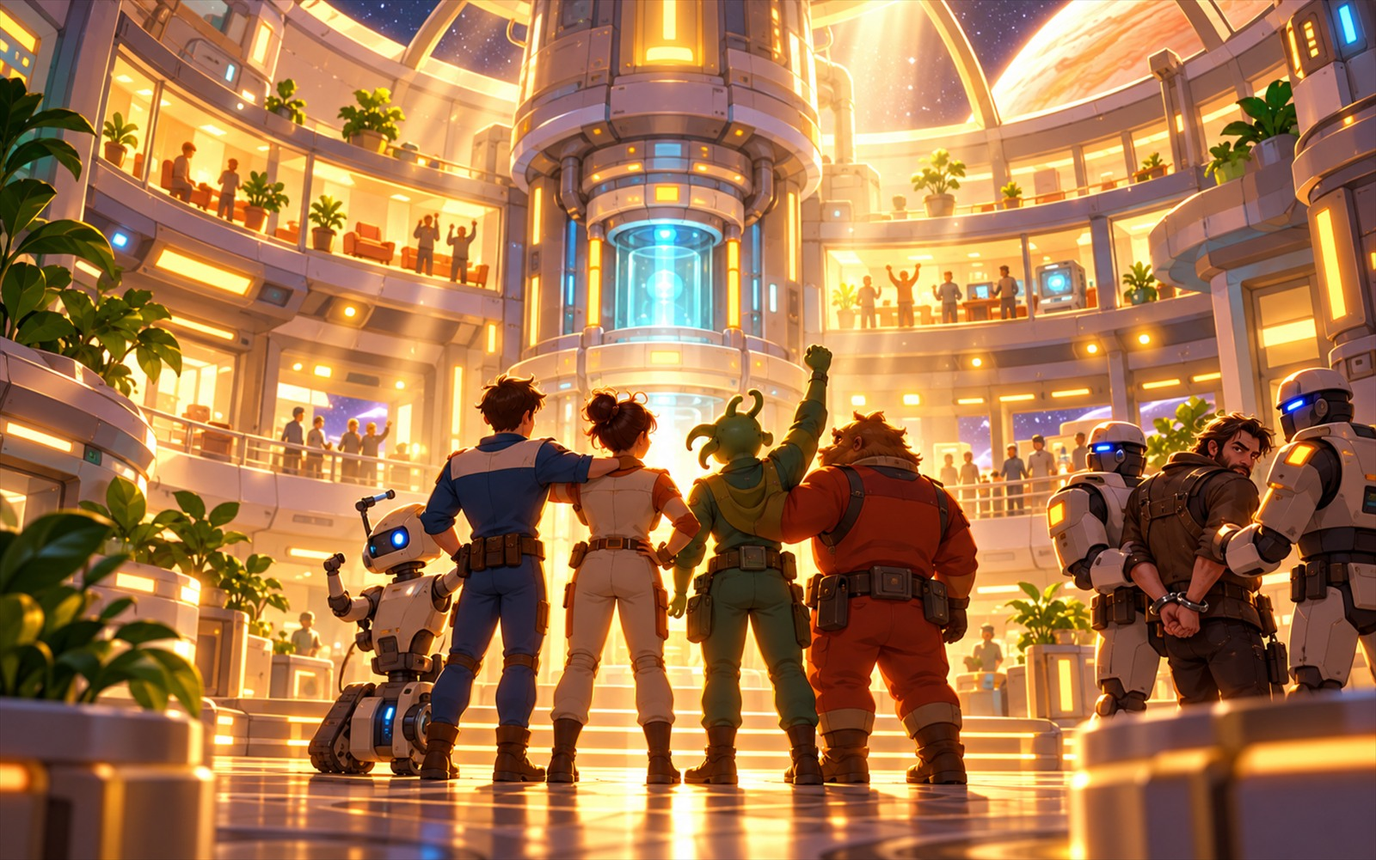
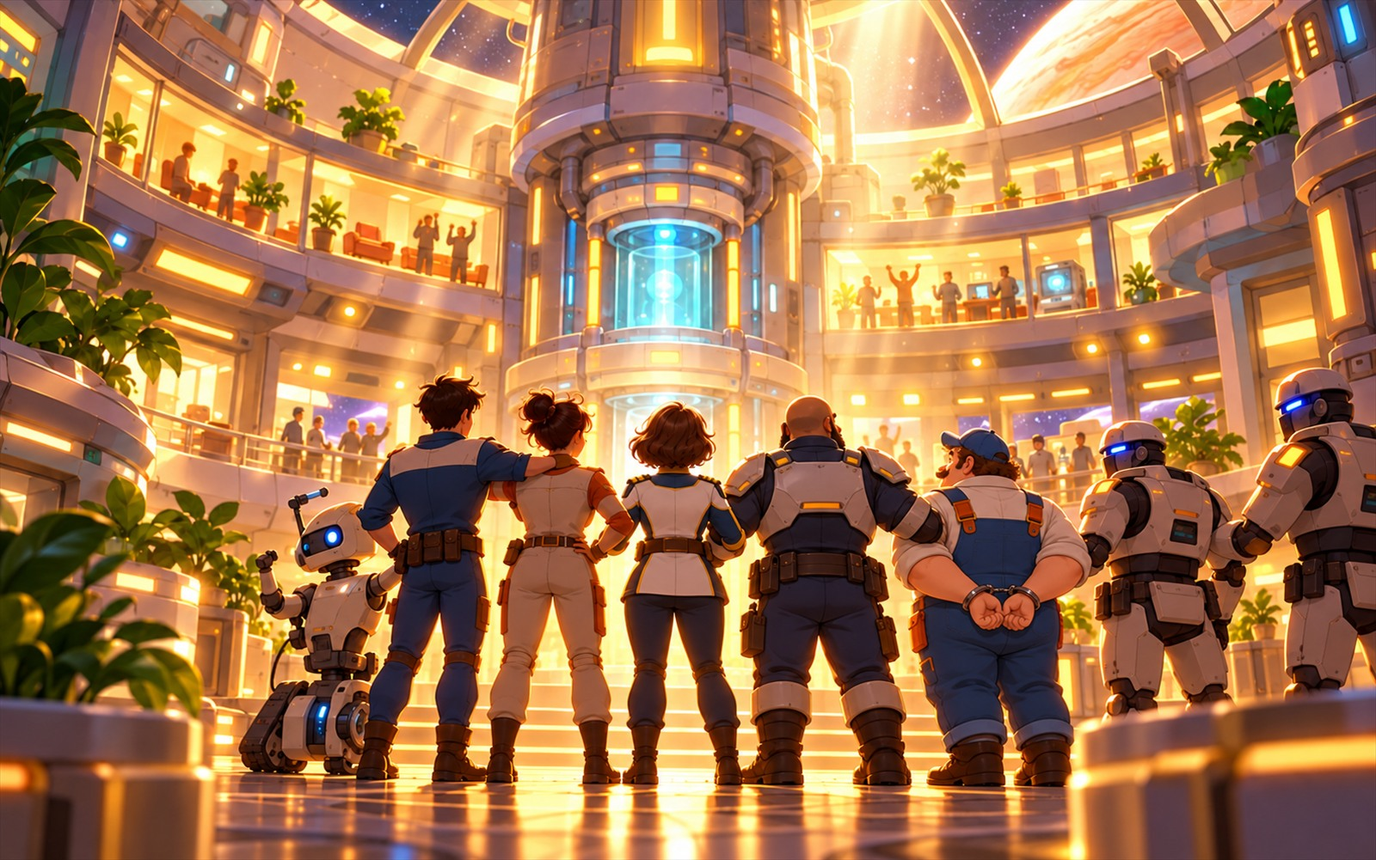
fix(B05): 评审修正轮 9 条落地 + 复评（轮 2）pass + 美术到货直入（T31-v2/T32-v2/T80）+ 记录面小修
- 修正轮：§1.1 确认句并入「手动存档位保留」；§1.2 机检① 拆口径＋写入失败采用句；§7.8 按 B05 后口径改写（29＝T80/44 条件件/不复做＋B134 例外）；§6.7 登记集 9＋1；§2-B127/B132/B133 计数与扫描式样；§8.2 H5＝12 条；§10/§13/§14 同步；staging 行 29/44＋§3.1 注记＋§6-D2 历史标注（v2.9）；
- 复评（轮 2）＝pass（批次档 §3 轮次 2 在案）；
- 美术到货直入：monitor-frame／ending-a 同名覆盖（v2）、defeat-ambush（T80）新增；art 侧登记与用词统一（「保险丝」）；
- 记录面小修（父侧直接执行·可回退）：design-ui v1.13／nodes v3.20 变更条目、staging v2.9 写入范围、B133 扫描面计数对齐；批次档 §4 老板直令入档。

diff --git a/docs/design-ui-v1.md b/docs/design-ui-v1.md
@@ -2,7 +2,7 @@
 
 > 归属：本关**界面 / 体验设计的唯一归属**——布局骨架、提示颜色语义、弹框与反馈规则、物品栏、氧气读数呈现、在场人物表现、舱外与空间通道的界面侧、玩法说明全文与检查清单。
 > 权威关系：数值与预算＝`design-station-v1.md` §8；文案＝`station-story-bible.md` §7；画面演出与镜头＝`station-staging.md` §1；场景架构与出图规则＝`art/scene-architecture.md`。三者冲突 ⇒ 停下上报，不得就地改口径。
-> 状态：**v1.12（B05 · 2026-10-04 晚 三条：CG 修正／结局整屏图补齐／多档位存档）**——v1.11 在案（B132）；本版四条：① T31／T32 判改重出（形象参照写死＋动作口径去歧义——B133／B134）；② 结局／失败整屏图补齐（29＝T80；44＝T81 条件件）＋浮图 `sangni-ambush` 撤注册（单一呈现——B135）；③ 新增**多档位手动存档/读档**（§1.2——B136，`design-station-v1.md` §7-E29）；④ 玩法说明增第 12 条（§8.1）。同步 §0／§1／§1.2／§2／§6.7／§7.4／§7.4.1／§7.7／§7.12／§8.1／§8.2／§10／§11／§12／§13／§14——**待评审轮与老板批准（§4 两待裁：§14-35／§14-36）**。
+> 状态：**v1.13（B05 · 2026-10-04 晚 三条：CG 修正／结局整屏图补齐／多档位存档；2026-10-06 评审修正轮续——§15）**——v1.11／v1.12 在案（B132／§15）；B05 四条：① T31／T32 判改重出（形象参照写死＋动作口径去歧义——B133／B134）；② 结局／失败整屏图补齐（29＝T80；44＝T81 条件件）＋浮图 `sangni-ambush` 撤注册（单一呈现——B135）；③ 新增**多档位手动存档/读档**（§1.2——B136，`design-station-v1.md` §7-E29）；④ 玩法说明增第 12 条（§8.1）。同步 §0／§1／§1.2／§2／§6.7／§7.4／§7.4.1／§7.7／§7.8／§7.12／§8.1／§8.2／§10／§11／§12／§13／§14——**评审修正轮落地、复评（轮 2）pass；待老板批准（§4 两待裁：§14-35／§14-36）**。
 > 来源：老板 2026-10-03 剧本定稿后的界面与体验 7 点意见 ＋ 美术任务全盘重排指令（「未处理的任务先全部撤回，重新安排……每改一次任务都检查美工的任务」）＋ 2026-10-03 ①人物呈现裁定（「在场景图中浮现对应角色的图片……场景图上还是要出现这个猫」→ 两层制）。
 > 边界：本档只写「界面怎么摆、怎么反馈」；不改剧情语义与数值（需要新数据处一律走「最小新增」并论证）；不写实现代码。
 
@@ -69,7 +69,7 @@
 - **结束判定**：存档节点为 `win`／`fail` 节点（41/42/43／44／29）或 `st.bankrupt` 为真 ⇒ 该局已结束。
 - **通关记录块**：① 通关史（独立键）：`🏆 通关记录：结局 · 圆满`——多个已收集结局并列（如 `…：结局 · 圆满、结局 · 取舍`），按达成先后、去重；② 本局失败终止（存档为 fail 态）另起一行：`上局结束：未通关`。失败不写入记录、不清空已有记录。
 - **覆盖口径**：开新局将覆盖已有存档时——先弹**统一一句确认**；取消＝不动存档。**不做自动备份。**
-  - **采用句（唯一一句——两处同句）**：`开始新局会覆盖本关的旧存档（通关记录保留）。确定开始？`
+  - **采用句（唯一一句——两处同句）**：`开始新局会覆盖本关的旧存档（通关记录与手动存档位保留）。确定开始？`
   - 两处＝① 卡片「重新开始」／「重玩」；② 局内重开（右上「↺」重开按钮／结局与失败结算的「↺ 重新开始本关」／求救面板「↺ 重开本关」）。
 - **存档脚注**：卡片一行小字：`进度存在这台设备的浏览器里（各人各份）`。
 - **难度选择**：单选（默认普通）——作用于「开始／重新开始／重玩」开新局；「继续」不受其影响。
@@ -120,7 +120,7 @@
 **异常兜底（本机存储不可用）**
 
 - 打开弹窗时**探测一次**（探针写入＋删除）：不可用 ⇒ 顶部警示行`这台设备无法保存进度（浏览器存储被禁用）；本次游玩不受影响。`＋档位按钮全部禁用。
-- 写入失败（配额等）⇒ 该档行内提示＋toast 一句；**游戏继续**（与既有自动存档静默失败同口径——不中断玩法）。
+- 写入失败（配额等）⇒ 该档行内提示＋toast（同句）：`⚠ 没能写入这个存档位（这台设备的存储空间不足或被禁用）；本次游玩不受影响。`；**游戏继续**（不中断玩法——自动存档侧照旧静默）。
 - 档位数据损坏（JSON 坏／字段缺）⇒ 该档**按空档呈现**（不删原数据、不抛异常）。
 
 **落地与同步（实现轮）**
@@ -131,12 +131,12 @@
 
 **机检（实现轮）**
 
-1. **键**：`slotsKey('station')`＝`mygame2.slots.station.v1`；三键（存档／档位／记录）互异；对档位存/读/删后，自动存档与记录逐字不变（互不干扰）。
+1. **键**：`slotsKey('station')`＝`mygame2.slots.station.v1`；三键（存档／档位／记录）互异；存／删后自动存档与记录逐字不变（互不干扰）；**读后自动存档＝该档 `st`**（与行为③、机检⑦同口径）；记录始终不变。
 2. **结构**：空表 ⇒ 3 项全 null；存入第 n 档 ⇒ 仅第 n 档有值（`savedAt` 合法＋`st` 与当时状态一致）；覆盖 ⇒ 第 n 档替换、其余不变；删除 ⇒ 回 null。
 3. **读档一致**：`档位读出 → normalizeState` 与存入时状态逐项一致（`loc`／资源／道具／难度／玩家名／`mSeen`／`cgSeen`）。
 4. **旧档与回归**：既有 `mygame2.save.<id>.v1` 照旧可读；B117 三态六条回归绿（档位键存在与否不影响卡片三态）；无档位 ⇒ 卡片不渲染「存档位」行。
 5. **确认句**：三句逐字（单一来源 `Core.slotAsk()`）；两处读取入口同串。
-6. **兜底**：桩 store 抛错 ⇒ 探测 false、按钮禁用、警示行在；`slotPut` 返回 false 且不抛；坏 JSON ⇒ 视空档。
+6. **兜底**：桩 store 抛错 ⇒ 探测 false、按钮禁用、警示行在；`slotPut` 返回 false 且不抛（⇒ 该档行内提示＋toast＝采用句）；坏 JSON ⇒ 视空档。
 7. **源码契约＋DOM 冒烟（临时）**：工具栏含 `💾`；`#saveModal` 在；存 → 读 → 删一轮（读后状态＝存档点、删后档位空）。
 
 ---
@@ -320,8 +320,8 @@
 ### B124 局内重开确认与卡片侧统一一句（2026-10-04 裁定）
 
 - **来源**：实现轮（B117）§5-5.4 报告——局内重开确认（`restart()`）与卡片侧 §1.1 定稿（`coverAsk`）存在两套说法。
-- **口径**：统一采用**卡片侧定稿句**——**采用句＝「开始新局会覆盖本关的旧存档（通关记录保留）。确定开始？」**；两处同句：① 卡片「重新开始」／「重玩」（§1.1）；② 局内重开（右上「↺」／结算「↺ 重新开始本关」／求救面板「↺ 重开本关」）。取消＝不动存档；不做自动备份。
-- **落点**：本档 §1.1（覆盖口径＋机检④）；实现＝`engine.js`（两处同源——代码轮）。
+- **口径**：统一采用**卡片侧定稿句**——**采用句＝「开始新局会覆盖本关的旧存档（通关记录与手动存档位保留）。确定开始？」**（括注含手动存档位——B136 开新局不碰档位，§1.2）；两处同句：① 卡片「重新开始」／「重玩」（§1.1）；② 局内重开（右上「↺」／结算「↺ 重新开始本关」／求救面板「↺ 重开本关」）。取消＝不动存档；不做自动备份。
+- **落点**：本档 §1.1（覆盖口径＋机检④）；实现＝`engine.js`（两处同源——代码轮；采用句含「手动存档位保留」⇒ `Core.coverAsk()` 与相关断言随实现轮同步——B05 评审修正轮 #9）。
 - **验收点**：§1.1 机检④（两处同串；取消后存档不变）。
 
 ### B125 每房自指 pin（统一口径 · 登记裁定）
@@ -344,7 +344,7 @@
 
 - **老板原话要点**：「浮窗（胖胖）只在开局那一刻需要，之后回食堂不要浮窗」（「浮窗始终跟背景图不贴切」）；「健身房同 2：任务推进完就不需要浮窗」；系统复盘「逐场景/逐时刻重定——何时该有浮窗、何时不该有」。
 - **落点**：§7.12（判据＋36 条全量重审总表）；§7.3（口径）；§7.4（触发列）；§7.4.1（注册裁定）；§7.5（窗景）；§7.7-13；`design-station-v1.md` §7-E27。
-- **改法**：三条判据（时刻性／窗口〔收窗行〕／首访一次 `mOnce`）＋36 条逐条处置（保留 23／收窗 6／首访一次 2／撤注册 5）；零新谓词；新增表现层状态位 `st.mSeen`。
+- **改法**：三条判据（时刻性／窗口〔收窗行〕／首访一次 `mOnce`）＋36 条逐条处置（保留 23／收窗 6／首访一次 2／撤注册 5——B05 追加 `sangni-ambush` 后＝22／6／2／6，见 §7.12 结果计数）；零新谓词；新增表现层状态位 `st.mSeen`。
 - **验收点**：§7.7-13（窗口与首访机检）；§7.12 表逐条可查。
 - **影响文件**：`prototype/levels/station.js`（节点 1／2 `mOnce`；节点 4／8／11／12／19 `mIf`；节点 9／17／39 与注册表撤注）；`prototype/engine.js`（`momentsOf` 收窗＋`mOnce` 过滤＋标记落库）；`prototype/test.station.mjs`（注册集 36→31 与枚举重算）。
 
@@ -380,12 +380,12 @@
 - **验收点**：§7.7-13 抽查（N19 修后零浮现、N39 零浮现）；`design-station-nodes.md` §5 行 39＋§9.5 登记；§9.1 三条。
 - **影响文件**：`prototype/levels/station.js`（节点 19／39）；`docs/design-station-nodes.md`；`prototype/test.station.mjs`（39 号选项盘点断言）。
 
-### B132 CG 整屏层（8 张演出大图 · 2026-10-04 午 老板裁定）
+### B132 CG 整屏层（9 张演出大图＋1 条件件 · 2026-10-04 午 老板裁定——B05 追加 29／44）
 
 - **老板原话要点**：「是不是还有图片没有入库的……例如好像有一张胜利的图片，坐上逃生舱撤离等图片都没看到」——T28~T35 八张演出大图已入库 `images/station/cg/` 但**无显示机制**。
-- **落点**：§6.7（机制／层序／兜底／读档归一／展示点登记表 8 张）；§7.7-16（机检）；`design-station-v1.md` §7-E28。
+- **落点**：§6.7（机制／层序／兜底／读档归一／展示点登记表 9 张＋1 条件件——B05 追加 29／44）；§7.7-16（机检）；`design-station-v1.md` §7-E28。
 - **改法**：数据面唯一新增＝`node.cg = { file, once?, dismiss? }`（7 节点：3／5／34／35／41／42／43）＋表现层状态位 `st.cgSeen`；序章图走既有 `meta.prologue.image`（E2 图位、零新机制）；**不新增剧情语义**（CG＝既有演出图的呈现）。
-- **验收点**：§6.7 机检①~⑧（登记集／序章／层序与点击／一次性与读档／缺图／回归／零残留）；§6.7 登记表 8 行逐条（id／节点／触发／方式／一次性）。
+- **验收点**：§6.7 机检①~⑧（登记集／序章／层序与点击／一次性与读档／缺图／回归／零残留）；§6.7 登记表 9 张＋1 条件件逐条（id／节点／触发／方式／一次性）。
 - **影响文件**：`prototype/levels/station.js`（7 节点 `cg`＋序章 `image`）；`prototype/engine.js`（`Core.cgOf`／`applyCg`＋`st.cgSeen`）；`prototype/index.html`（`#cgLayer`）；`prototype/style-ui.css`（层／图／提示片样式）；`prototype/test.station.mjs`（新机检）；`images/station/cg/`（8 张·已入库）。
 
 ### B133 规格措辞修正：动作口径去歧义（防复发 · 2026-10-04 晚）
@@ -393,7 +393,7 @@
 - **来源**：老板三条①——监控画面「人物还对着镜头打招呼」（实图）＋根因＝图单原措辞把「朝画外示意」写成了可读作「朝镜头做动作」的两义句＋单内无形象参照指针。
 - **落点**：`art/requirements-v1.md` §4.1 T31 行；`docs/station-staging.md` §1 行 35＋§3.1 CG-04 行；本档 §7.4 行 23。
 - **改法**：四处改后统一为无歧义动作口径**朝画外示意**（手势朝向画面外、面朝画面侧方）；负向约束＝**不得面向镜头、不与镜头互动**；形象参照写死（T05 第 7 格）。
-- **验收点**：四处逐字复核（三档改后文本无两义动作措辞——grep 复核）；图单同步＝B134。
+- **验收点**：四处逐字复核——扫描式样（可跑；UTF-8 感知检索——勿用 `findstr`）：① **禁式**＝串 `朝镜头`——扫描面（见③）不得命中；② **「镜头」许可式**＝仅负向约束短语 `不面向镜头`／`不得面向镜头`／`不与镜头互动`／`无镜头互动`（逐行核对：行的每个「镜头」都须落于其中之一；同句省略式「不得面向镜头/与镜头互动」计入允许，其余命中＝红）；③ **扫描面**＝下列写点（四处主体＋ art §4.5 两行守卫）——`art/requirements-v1.md` §4.1-T31 行（`:99`）＋§4.5 硬规则行与 T31-v2 行（`:188`／`:192`）、`docs/station-staging.md` §1 行 35（`:98`）＋§3.1 CG-04 行（`:198`）、本档 §7.4 行 23（`:731`）；记录面与生成物不在扫描面（批次档／QA 报告／`station-copy-v1.md`／lab 快照）。图单同步＝B134。
 - **影响文件**：`art/requirements-v1.md`、`docs/station-staging.md`（演出线写域——按父侧指示同步并披露）、本档。
 
 ### B134 桑尼形象／动作修正：T31-v2／T32-v2 重出（2026-10-04 晚）
@@ -541,7 +541,7 @@
 - **楼层图行为逐字不变**（孔＝当前位置＋可达；半径＝98/74×k）。
 - **机检（实现轮）**：① 站关 `mask === false` 场景集＝17 房＋站外（逐条枚举、无多余）；楼层图无该字段；② 房间/站外遮罩层不渲染（DOM 冒烟）；③ 楼层图遮罩孔集合与改前一致（回归）；④ 示例关零变化（dalim 无该字段 ⇒ 两场景遮罩照旧）。
 
-### 6.7 CG 整屏层（B132 · 2026-10-04 午 · 8 张演出大图）
+### 6.7 CG 整屏层（B132 · 2026-10-04 午 · 9 张演出大图＋1 条件件——B05 追加 29／44）
 
 **来源**：T28~T35 八张演出大图已入库 `images/station/cg/`（实盘 8 张：`prologue-scene` 1672×941／`jupiter-closeup` 1672×941／`medbay-closeup` 1659×948／`core-ignite` 1942×809／`monitor-frame` 1659×948／`ending-a`·`ending-b`·`ending-c` 1600×1001），此前**无显示机制**（老板点名「都没看到」）。CG＝既有演出图的呈现——**不新增剧情语义**。（B05 追补：29／44 两张整屏图——T80 `defeat-ambush`／T81 `defeat-oxygen`（44＝条件件）——到货即入库注册；`monitor-frame`／`ending-a` 判改重出为**同名覆盖**、零接入。口径见 §2-B134／B135。）
 
@@ -550,7 +550,7 @@
 - `file`：`../images/station/cg/<name>.jpg`（路径只来自关卡数据）。
 - `once`：可选布尔，缺省 false。**true＝同一存档只显示一次**（首访一次）——标记＝`st.cgSeen[<节点>]`（表现层状态位、随存档；旧档缺省空表）；用于会被反复进出的房间（3／5）。
 - `dismiss`：可选，`'click'`（缺省）｜`'keep'`。`click`＝点击该层关闭（关后本节点内不再弹；换节点重新求值）；`keep`＝常驻（结局屏＝画面定格）。
-- **不设 `cond`**：8 处展示点无一需要条件化（一次性由 `once` 承担、状态由节点本身承担）；将来确需条件再按「最小新增」另行论证。
+- **不设 `cond`**：9 张展示点（44 条件件获批后同判）无一需要条件化（一次性由 `once` 承担、状态由节点本身承担）；将来确需条件再按「最小新增」另行论证。
 
 **呈现**：整屏层 `#cgLayer`——位于场景区（`#sceneWrap`）内、覆盖全幅（在编号层／浮现层／物品栏行与提示条之上＝**场景区最上**；右栏 HUD／正文／选项不入层）；**不随舞台拖拽/缩放**（位于 `#stage` 变换之外）；图像 `.cgImg` 全幅 **`object-fit: contain`**（整图可见、不裁边；留边由近黑层底承担——同序章层族）；可点掉档带底部提示片「点击继续」；**点击/拖拽不穿透**到底层（不触发编号、拖拽、校准点击）。
 
@@ -728,7 +728,7 @@
 | 20 | `panel-weld` | 19（默认；收窗＝`太阳能板已修好`——B131）；39 不注册 | 破洞面板＋弧光在木星的光里一闪一闪（近景；小帮手代焊版同图） | 「小帮手伸出焊臂，弧光在木星的光里一闪一闪」 | — | 新图 **T59**（扩图批 · 2026-10-04 全发；§7.4.1） |
 | 21 | （复用）医务室首访 | 3（首访） | 病床上的伊莲娜（昏睡）＋阿雅的手/冰袋 | 「是站长伊莲娜！她受了伤，一直没醒」 | **T29（CG-02）** | 复用 |
 | 22 | （复用）观景厅推近 | 5（首访） | 木星大特写（含前景剪影） | 「观景厅的窗口正对着木星」 | **T28（CG-01）** | 复用（与 T51 同源不同图，§7.5） |
-| 23 | （复用）监控画面 | 35 | 监控回放画面（桑尼拉保险丝＋朝画外示意的手势） | 「画面里，桑尼拉下了主供电的保险丝」 | **T31（CG-04；2026-10-04 晚判改 → T31-v2 同名覆盖——B134）** | 复用 |
+| 23 | （复用）监控画面 | 35 | 监控回放画面（桑尼拉下主供电的保险丝＋朝画外示意的手势） | 「画面里，桑尼拉下了主供电的保险丝」 | **T31（CG-04；2026-10-04 晚判改 → T31-v2 同名覆盖——B134）** | 复用 |
 
 #### 7.4.1 扩图批（T57~T72 · 2026-10-04 老板全发 · 到货登记）
 
@@ -810,7 +810,7 @@
 ### 7.8 边界
 
 - 不改剧情语义、条件、数值、结局与文案；不新增人物；不做「角色随行」动态在场；场景图状态＝**条件驱动的有限变体**（§7.10——不做自由换图/动画式多版本）。
-- 22 号身份不露（剪影版，T56）；失败结算节点 44 不出插图（黑屏即设计）；29 由 T71 承担（2026-10-04 全发批）；CG/结局/监控等既有插图不复做（§7.4「复用」行）。
+- 22 号身份不露（剪影版，T56）；失败结算 29 号＝T80 整屏 CG（`dismiss:'keep'`；原浮图 T71 撤注册留档）、44 号＝T81 条件件（未获批前无 `cg`——§6.7／§2-B135）；CG/结局/监控等既有插图不复做（§7.4「复用」行）——**例外＝T31／T32 同名判改重出**（B134：形象与动作修正，`cg.file` 不变）。
 - **B120（同框全覆盖）**：不重画任何已交付图（T15~T26 内景＋T37~T56 浮现图）——全覆盖由「覆盖卡＋`figures`」达成；例外逐条登记（§7.3，初始为空）；柔边椭圆主法收窄为「无同框场合」（D59／D60）。
 - **B121（覆盖卡全站统一）**：规则为完备口径（任何 L1 常驻角色 × 同角色 L2）；不新增覆盖对象类别（非角色实体走变体）；不重画已交付图。
 - **B122（背景状态变体）**：不新增状态位、不改 pins（同尺寸同构图约束——改变布局者另立场景条目）；变体图免验收直入（同扩图批规则）；不列项（复电类等）逐条登理由（§7.11）。
@@ -962,7 +962,7 @@
 | H2 | 界面/交互变动（资源呈现、物品栏、提示、按钮） | 对照帮助第 2/5/6/8/12 条与 §1 布局 | 帮助描述不落后于界面（如「氧气条旁的数字」存在、「物品栏」在）；第 8 条与 §3 颜色表一致（gain 类含「获得／失去」两前缀——「交出去」也读绿）；第 6 条＝战斗对照行／构成行与数据面 `atk` 口径一致；第 12 条＝存档行与 §1.2 一致（`💾` 与三个存档位在） |
 | H3 | 文本面变动（新地名/道具/线索进入可用面） | 判断帮助是否需要提及 | 遵守「不预列发现面名词/道具」口径（界定＝§8.1 约束行）；新增提及须当场解释 |
 | H4 | 词面口径变动（单位/币种/术语） | 帮助全文扫描 | 无旧词残留（如「信用点」「还差点底气」）；术语与 bible §5 一致 |
-| H5 | 每批收口 | 帮助 ↔ 数据面逐行核对；帮助 ↔ 呈现面抽查 | 11 条逐条过；文案稿重导成功 |
+| H5 | 每批收口 | 帮助 ↔ 数据面逐行核对；帮助 ↔ 呈现面抽查 | 12 条逐条过；文案稿重导成功 |
 | H6 | 帮助本身改动 | 回填 `station-story-bible.md` §7.46（叙事线） | 两处逐字一致 |
 
 ---
@@ -1040,12 +1040,12 @@
 | B124 | 重开确认统一句 | §1.1 机检④（卡片与局内重开两处同串；取消不动存档） |
 | B125 | 每房自指 pin（标记＋遮罩开孔） | `design-station-v1.md` §4.1-④（每房 pins 键含本房节点号）；§7.7-8（N14 持回放后标记回来） |
 | B126 | 扩图批到货登记（T57~T72 · 16 张） | §7.4.1 到货登记表逐张可查（id｜触发｜呈现｜锚点建议初值）；§7.7-9 机检①②③（注册集＝到货集；§20-5 扩表 36）；§7.3 T73 `figures` 回填项在案 |
-| B127 | 浮窗系统口径＋全量重审 | §7.12 裁定表 36 条逐条可查（id／触发／处置／依据／影响；计数＝23／6／2／5）；§7.7-13（窗口与首访一次机检） |
+| B127 | 浮窗系统口径＋全量重审 | §7.12 裁定表 36 条逐条可查（id／触发／处置／依据／影响；计数＝23／6／2／5〔B05 后＝22／6／2／6——§7.12 结果计数〕）；§7.7-13（窗口与首访一次机检） |
 | B128 | 数字圈：可点＝显示、不可点＝隐藏 | §6.5 机检①②③（房间/站外＝可达集；N3 抽查；楼层图回归） |
 | B129 | 遮罩：楼层图专属 | §6.6 机检①~④（枚举／不渲染／楼层图回归／示例关零变化） |
 | B130 | 亮度口径：全站正常亮度 | §11 追加块零残留机检（全关无 `sceneDim`／`dim`／`--dim-*`／`#stage.dark`；示例关与站关同口径） |
 | B131 | 舱外：隐藏浮图＋删冗余选项 | §9.1 三条；§7.7-13 抽查（N19 修后零浮现、N39 零浮现）；`design-station-nodes.md` §5 行 39＋§9.5 登记 |
-| B132 | CG 整屏层（8 张演出大图） | §6.7 机检①~⑧（登记集／序章／层序与点击／一次性与读档／缺图／回归／零残留）；§6.7 登记表 8 行逐条（id／节点／触发／方式／一次性） |
+| B132 | CG 整屏层（9 张演出大图＋1 条件件——B05 追加 29／44） | §6.7 机检①~⑧（登记集／序章／层序与点击／一次性与读档／缺图／回归／零残留）；§6.7 登记表 9 张＋1 条件件逐条（id／节点／触发／方式／一次性） |
 | B133 | 规格措辞修正（动作口径去歧义） | 四处逐字复核：`art/requirements-v1.md` §4.1-T31／`docs/station-staging.md` 行 35＋CG-04／本档 §7.4-23——改后无两义动作措辞（grep 复核） |
 | B134 | T31-v2／T32-v2 重出 | §4.5＋单逐条可查；**同名覆盖**（`cg.file` 与节点集不变）；交付图三条（无文字／形象＝T05 第 7 格／无镜头互动；人群零非本作角色） |
 | B135 | 结局／失败整屏图补齐 | §6.7 机检①（登记集 {3／5／29／34／35／41／42／43}＋44 条件件；`keep` 集 {29／41／42／43}）；29 号浮图零残留；44 两态（未批＝无 `cg`） |
@@ -1237,10 +1237,10 @@
 | D62 | 背景状态变体＝`scenes[].variants`（先匹配者为准＋同尺寸同构图＋缺图回落基础图＋cond 驱动零状态位） | L1 随剧情切到当前状态（老板裁定②）；条件驱动＝读档自动归一、零新状态位；同尺寸＝pins/锚点共用零重标 | 独立状态位（存档迁移＋双源）／改 pins 的多图（重标定面爆炸）／自由换图（不可机检） |
 | D63 | 该换背景＝**分批且可判不列**：批 A 4（明显矛盾）／批 B 3（状态补全）／不列 5（复电类＝现图明亮无可辨差分等，逐条记理由） | 「量力分批」＋证据纪律（逐张图检后才下单）；复电/堆芯类现图已亮 ⇒ 重画零收益 | 一律下单（无效订单）／一律不下（明显矛盾留着） |
 | D64 | 到达提示＝**按到达场景分形**：房间＝`到达：<房间名>`（无图标）／其余（含楼层间移动）＝现形 `🛗 到达：<场景标>` | 房间到达报楼层＋电梯图标＝误导（房内看左上角层标即知楼层）；楼层间移动报层＝正确；实现＝目的场景判据 | 全改报房间名（楼层移动的层标语义丢失）／维持现状（报告点名不一致） |
-| D65 | 重开确认＝**卡片侧定稿句**统一（两处同句）：「开始新局会覆盖本关的旧存档（通关记录保留）。确定开始？」 | 一句覆盖两类入口（卡片「重新开始/重玩」＋局内重开）；保留「通关记录保留」告知（B117 已裁定）；两处同源可机检 | 采用局内句（丢「通关记录保留」告知）／各写一句（即报告点名的两套说法） |
+| D65 | 重开确认＝**卡片侧定稿句**统一（两处同句）：「开始新局会覆盖本关的旧存档（通关记录与手动存档位保留）。确定开始？」 | 一句覆盖两类入口（卡片「重新开始/重玩」＋局内重开）；保留「通关记录保留」告知（B117 已裁定）＋「手动存档位保留」告知（B136 起开新局不碰档位——B05 评审修正轮 #9，§1.2）；两处同源可机检 | 采用局内句（丢「通关记录保留」告知）／各写一句（即报告点名的两套说法） |
 | D66 | 每房自指 pin＝**统一口径**（17 房必有；无浮图时承担「你在这里」标记＋遮罩开孔；标记载体、点击空操作） | 标记与开孔以 pin 为载体（`renderPins`／`renderDim` 同源）；房内无 pin＝标记无处渲染（N14 断言落不了地）；三房先例＝已验证形态 | 只在 6 房补（名单随状态漂移、留例外）／明确房内不设标记（与 B112「空集照旧」冲突） |
 | D67 | 扩图批到货登记＝**到货即注册**（注册集＝到货集）＋**与背景变体同实体的 L2 挂条件**（`safe-open`@9／`firstaid-open`@4／`pods-check`@17 挂 `mIf`——L2 渲染时变体必已生效，B122 协作②同构；`robot-rescue`@37 防双现注册点）＋锚点＝建议初值（按同房 pin 推）→ C 键标定（数据为准） | 「出图即生效」＝到货即入注册；状态抵触/同实体者挂条件防「未开柜却见柜开」「先于变体空柜态」（B122 口径）；建议初值使注册轮零等待、标定同流程 | 全批默认不挂条件（同实体图会先于变体显示、状态相抵触）／注册集含未到货（§20-5 死行＋无锚点可标） |
-| D68 | 浮窗判据＝**三层：时刻性（常态靠背景）／窗口（收窗行）／首访一次（`mOnce`＋`st.mSeen`）**；全量重审 36 条（保留 23／收窗 6／首访 2／撤注册 5——含收窄 D67 三处挂条件，见 §7.12） | 老板判据「浮窗只服务剧情那一刻、常态靠背景」；窗口取同节点 `tIf` 同源条件＝正文翻页画面同步收；`mOnce` 治「初见场面」无状态可依（食堂/睡眠舱＝老板点名） | 全批默认集保留（老板点名复现问题）／只加状态窗口不就「开局那一刻」（无法除尽）／新增谓词（面大） |
+| D68 | 浮窗判据＝**三层：时刻性（常态靠背景）／窗口（收窗行）／首访一次（`mOnce`＋`st.mSeen`）**；全量重审 36 条（保留 23／收窗 6／首访 2／撤注册 5〔B05 后＝22／6／2／6——§7.12 结果计数〕——含收窄 D67 三处挂条件，见 §7.12） | 老板判据「浮窗只服务剧情那一刻、常态靠背景」；窗口取同节点 `tIf` 同源条件＝正文翻页画面同步收；`mOnce` 治「初见场面」无状态可依（食堂/睡眠舱＝老板点名） | 全批默认集保留（老板点名复现问题）／只加状态窗口不就「开局那一刻」（无法除尽）／新增谓词（面大） |
 | D69 | 数字圈＝**可点＝显示、不可点＝隐藏**；房间/站外只渲染可点（含自指 pin 与「你在这里」不渲染）；楼层图现形 | 老板「不能点击的圈全部删掉……完全没用且影响看图」；自指 pin 数据保留为校准锚点（B125 口径收窄）；与 B112 关系＝楼层图守护 | 全场景统一隐藏不可点（含楼层图——地图功能丢失）／房间保留「你在这里」（老板已否） |
 | D70 | 遮罩＝**楼层图专属**（`scenes[].mask:false` 房间 17＋站外 1） | 老板「房间里本就没多少可选项」「要能正常看整张舱外背景」；楼层图＝地图导航（保留） | 房间保留遮罩（老板已否）／站外保留遮罩（违「整张可见」） |
 | D71 | 亮度口径＝**全站正常亮度**（2026-10-04 午 老板裁定）——不做调暗；断电氛围由文案与既有画面承担 | 老板原话「整体太暗…不需要通电，还是正常亮度算了」；零亮度机制＝零残留（数据/样式/机检三面） | 调暗滤镜（老板 2026-10-04 午已否）／断电态变体图（违零新图）／遮罩加浓（遮罩职责在探索面） |
@@ -1294,7 +1294,7 @@
 36. **44 号配图待老板 §4 裁（T81 条件件）**：建议一并补（与 29 号同口径的整屏失败图）；反面＝失败高频重开点易看腻（staging §6-D2 原判，已被 2026-10-04 全发裁定局部推翻）。**请 §4 裁定**；不获批 ⇒ T81 不下发、节点 44 无 `cg`。
 37. **T71 `sangni-ambush` 撤注册（留档）**：文件留 `images/station/moments/`；`art/status.md` 侧状态同步请父侧/美术线转（同 §14-28 体例）。
 38. **帮助第 12 条落点**：`station-story-bible.md` §7.46（叙事线写域）＋`docs/station-copy-v1.md` 重导——随实现轮或叙事线轮（口径＝§8.1 H6）。
-39. **`docs/station-staging.md` 同步披露（演出线写域）**：本轮按父侧指示改 CG-04 两行（行 35 镜头列＋§3.1 CG-04 行）＋§9 变更记录 v2.8；其余演出列表未动。
+39. **`docs/station-staging.md` 同步披露（演出线写域）**：设计轮按父侧指示改 CG-04 两行（行 35 镜头列＋§3.1 CG-04 行）＋§9 变更记录 v2.8；**B05 评审修正轮（#3）追加同步**：行 29／44 主面板列（T80／T81 条件件）＋§3.1 T80／T81 注记＋§6-D2 历史标注——staging §9 变更记录 v2.9（批次档 §2 修正轮清单同源）。
 40. **`--player`／lab 不接入多档位（明示不做）**：工具面沿用会话快照（`save <文件>`／`load <文件>`）；如需体验师验证存档面，另议。
 41. **T31-v2／T32-v2 到货即覆盖同名文件**（`images/station/cg/monitor-frame.jpg`／`ending-a.jpg`）——`cg.file` 路径不变 ⇒ 零代码接入；T80／T81 到货后注册（29／44）＋撤 T71 浮图注册＝实现轮小轮（口径＝§6.7）。
 
@@ -1315,3 +1315,4 @@
 - **v1.10（2026-10-04，B04 晨 试玩系统复盘轮 · B127~B131）**：老板六点＋系统复盘——B127 浮窗判据（时刻性／窗口／首访一次 `mOnce`）＋全量重审 36 条（§7.12；撤注册 5、收窗 6、首访 2）；B128 数字圈「可点即显」（§6.5；自指 pin 口径收窄）；B129 遮罩楼层图专属（§6.6）；B130 复电前调暗（§6.7；零新图；§7.11-8 重订）；B131 舱外两条（§9.1；`panel-weld` 收窗＋删 39 号冗余选项）。§0 唯一清单 7→10 项；§1 层序行；§7.3（窗口与首访／标记段／自指 pin）；§7.4（行 4／8／20 触发列）；§7.4.1（注册裁定）；§7.5（窗景不注册）；§7.7-13~16（四组新断言）；§7.8；§9.1；§10；§11（追加块）；§12；§13（D68~D72）；§14（24 重订＋28~32）同步。
 - **v1.11（2026-10-04，B04 午 老板二裁：撤调暗＋CG 整屏层）**：① B130 重订——亮度口径＝**全站正常亮度**（§2-B130；§7.11-8；§6.7 调暗条目删除、位次重订为 CG）；② 新增 B132 CG 整屏层（§2-B132／§6.7：机制＋8 张展示点登记表＋机检八条；序章图走既有 `meta.prologue.image`）；§0 唯一清单第 10 项换为 `node.cg`＋`st.cgSeen`；§1 层序行；§7.5（CG-01 指针）；§7.7-16；§7.8；§10；§11（追加块）；§12；§13（D71 重订＋D73）；§14（24 重订＋33／34）同步；`design-station-v1.md`（§4.1 `dim` 删除／§7-E28）＋`docs/README.md` 版本列同步。
 - **v1.12（2026-10-04，B05 晚 三条：CG 修正／结局整屏图补齐／多档位存档）**：① B133 规格措辞修正（动作口径去歧义——四处；`art/requirements-v1.md`＋`docs/station-staging.md`＋本档 §7.4-23）；② B134 T31-v2／T32-v2 重出（形象参照写死＋动作口径；同名覆盖·免验收直入——`art/requirements-v1.md` §4.1＋§4.5）；③ B135 结局／失败整屏图补齐（29＝T80；44＝T81 条件件；浮图 `sangni-ambush` 撤注册——§6.7／§7.4-19／§7.4.1-15／§7.7-9／§7.12-34）；④ B136 **新增 §1.2 多档位存档／读档**（存储口径／档位内容／UI 落点／确认语义／行为／兜底／机检七条）；§8.1 帮助增第 12 条（11→12）；§0／§1／§2（B133~B136）／§8.2／§10／§11（追加块）／§12／§13（D74~D78）／§14（35~41）同步；`design-station-v1.md`（§7-E29）＋`docs/design-station-nodes.md`＋`docs/station-staging.md`（v2.8）＋`art/**`＋`docs/README.md` 版本列同步。
+- **v1.13（2026-10-06，B05 设计评审修正轮 · 复评（轮 2）pass）**：按评审 9 条逐条落修（详目＝批次档 §2「B05 评审修正轮」段）——覆盖确认句并入「手动存档位保留」（§1.1；§2-B124／D65 同步）；§1.2 机检① 拆口径（读后自动存档＝该档 `st`）＋写入失败补采用句；§2-B127／B132／B133 计数与判据修正（扫描式样写死）；§6.7 登记集 9 张＋1 条件件；§7.8 按 B05 后口径改写（29＝T80／44＝T81 条件件／不复做＋B134 例外）；§8.2 H5＝12 条；§10／§13／§14 同步；`docs/station-staging.md`（v2.9）／`docs/design-station-nodes.md`（v3.20）同轮同步。

diff --git a/docs/batches/B05-cg-fix-and-saves.md b/docs/batches/B05-cg-fix-and-saves.md
@@ -108,7 +108,83 @@
 - 越写域写入（均已披露）：`docs/station-staging.md`（演出线）＋`docs/design-station-nodes.md`（CG 登记随轮）＋`docs/README.md`（版本列）。
 - 等待项：老板 §4 两裁（上抛 1／2）前，`station.js` 节点 29／44 的 `cg` 落实＝实现轮（T80 到货即做；T81 获批才做）。
 
+**B05 评审修正轮（eng-designer · 2026-10-06）——§3 轮次 1（1🔴／2🟡／6🔵）逐条落修**
+
+二选一裁决（写明选择与理由）：
+- **#1 取「按 B05 后口径改写」**（不取 D33 体例历史标注）——§7.8＝边界（规范面）；按 D8，失效表述从规范面**删除**、不留「先前…」尸标；D33 体例面向记录面（决策表），两面不同。
+- **#7 取「补玩家可见采用句」**（不取「沿用自动存档失败文案」）——既有自动存档失败为**静默**（`prototype/engine.js` `Core.saveTo` 捕获后仅返回 false、全链无文案，实读在案）：「沿用」无源可依，故档位面补可见句。
+
+逐条（号 → 改动 file:line）：
+1. `docs/design-ui-v1.md:813`（§7.8）→ B05 后口径：29＝T80 整屏 CG（`dismiss:'keep'`＋原浮图 T71 撤注册留档）、44＝T81 条件件（未获批前无 `cg`）；「不复做」加 B134 例外限定（T31／T32 同名判改重出）。附带补：`:5`（状态行同步清单）加 §7.8。
+2. `docs/design-ui-v1.md:134`（§1.2 机检①）→ 拆口径：存／删后自动存档与记录不变；**读后自动存档＝该档 `st`**（与行为③ `:116`、机检⑦ `:140` 同口径）。
+3. 演出面同步（`docs/station-staging.md`）：行 29（`:92`）主面板列补「整屏图 T80〔新图·B05〕」；行 44（`:112`）补「整屏图 T81〔新图·B05·条件件〕」；§3.1 表后加 T80／T81 指针注记（`:206`，指向 `art/requirements-v1.md` §4.5）；§6-D2（`:286`）加 B05 改判历史标注（D33 体例）；§9 变更记录 v2.9（`:334`）。设计侧披露同步＝`docs/design-ui-v1.md:1297`（§14-39 追加修正轮同步句）。
+4. 计数同步（`docs/design-ui-v1.md`）：`:544`、`:553`、`:383`、`:386`、`:388`、`:1048` 按 B05 后数值改写（8→9＋1）；`:347`「撤注册 5」加 B05 指针（22／6／2／6——§7.12）；**附带补**：`:1043`（§10-B127 行计数）同族加 B05 指针（轮1 未列、属同一计数族，详见披露）。
+5. `docs/design-ui-v1.md:965`（§8.2-H5）→「12 条逐条过」。
+6. 用词统一（基准词＝bible §7「保险丝」——`docs/station-story-bible.md:352` 口径行）：`docs/design-ui-v1.md:731`／`docs/station-staging.md:198`／`docs/design-station-nodes.md:288` 三处统一为「桑尼拉（下）主供电的保险丝」。
+7. `docs/design-ui-v1.md:123` 补玩家可见采用句（`⚠ 没能写入这个存档位（这台设备的存储空间不足或被禁用）；本次游玩不受影响。`）＋`:139` 机检 6 挂断言（`slotPut` false ⇒ 行内＋toast＝采用句）。
+8. `docs/design-ui-v1.md:396`（B133 验收）→ 写死扫描式样：① 禁式＝串 `朝镜头`；② 「镜头」许可式＝四个负向短语逐行核对；③ 扫描面＝四处写点（art §4.1-T31＋§4.5／staging 行 35＋CG-04／本档 §7.4-23）；记录面与生成物除外。
+9. `docs/design-ui-v1.md:72`／`:323`／`:1240`（采用句三处同句，单一来源）→ 句尾并入「与手动存档位保留」；`:324`（B124 落点）加实现同步注（`Core.coverAsk()` 与相关断言随实现轮）。
+
+未做／披露：
+- `art/**` 零触碰（父侧口径）：`art/requirements-v1.md:99`／`:192` 仍作「桑尼拉保险闸」——与基准词「保险丝」不一致（轮 1 #6 同族残留，随「图单已下发，另行」留美术线同步）。
+- 记录面／生成物未动（旧措辞属历史或生成物）：批次档 §1／§3、QA 报告、`station-copy-v1.md`（重导物）、lab 快照；`design-ui-v1.md:385`／`:546` 的「T28~T35 八张」＝原始八张之史实，句面仍成立、不改。
+- `docs/design-ui-v1.md` 版本号与 §15 变更记录未动（九条清单未含版本轮；如需按 B04 体例补 v1.13 条目，父侧另裁）。
+- git 工作树中 `art/status.md`／`art/deliveries/notes.md`／`images/station/cg/*.jpg` 的改动为并行写者（美术线）9:08–9:09 落入，早于本修正轮首个写入（9:11）；本修正轮写入仅上述 docs 三档；`prototype/**`／`tools/**` 零改动。
+
+**评审修正轮 · 补记（同轮）**：计数同族再补一处——`docs/design-ui-v1.md:1243`（§13-D68 行「保留 23／收窗 6／首访 2／撤注册 5」）同加 B05 指针（＝22／6／2／6——§7.12 结果计数）；与 `:347`／`:1043` 同处置（轮 1 #4 只列 `:347`；同族逐处校对后一并收口）。§15-v1.10 行的「撤注册 5」（`:1315`）＝记录面（变更记录·时点值），按 D8 不回改。
+
 ## §3 设计评审（评审子代理）
+
+### 轮次 1（评审子代理）
+
+B05 设计评审（B133~B136）发现表（评审面：design-ui-v1／design-station-v1／design-station-nodes／station-staging）——计数：🔴×1／🟡×2／🔵×6（共 9 条）。
+
+| # | Category | Severity | Issue | Suggestion |
+|---|---|---|---|---|
+| 1 | 文档一致性（自档矛盾） | 🔴 | `docs/design-ui-v1.md:813`（§7.8 边界）仍写「失败结算节点 44 不出插图（黑屏即设计）；29 由 T71 承担（2026-10-04 全发批）」——与本档 §6.7 登记表（`docs/design-ui-v1.md:577`：29 由「defeat-ambush.jpg」（T80）承担）及 §2-B135（`docs/design-ui-v1.md:411`：「撤 `moments: ['sangni-ambush']`」＋29 增 `cg`）为同一设计点的相反描述；同句「CG/结局/监控等既有插图不复做」与 B134 的同名判改重出（T31／T32）亦相反；本版状态行（`docs/design-ui-v1.md:5`）的同步清单不含 §7.8 ⇒ 属未同步而非留档 | 将该句改为 B05 后口径（29＝T80 整屏 CG、T71 撤注册留档、44＝T81 条件件；「不复做」加 B134 例外限定），或按 D33 体例加历史标注指向 §6.7／§2-B135 |
+| 2 | 验收一致性 | 🟡 | §1.2 机检①（`docs/design-ui-v1.md:134`：「对档位存/读/删后，自动存档与记录逐字不变（互不干扰）」）与行为③（`docs/design-ui-v1.md:116`：「读手动档＝顺带把自动存档带到该档」；另见 `:86`）冲突——照①写测试会断言「读档后自动存档不变」，与确认句承诺及机检⑦（`:140`：「读后状态＝存档点」）相反 | 机检①改为「存/删后自动存档与记录不变；读后自动存档＝该档 `st`（与③、⑦同口径）」，或写明「读」仅指档位表读取 |
+| 3 | 跨档同步（协调项） | 🟡 | B135 演出面未在 `docs/station-staging.md` 登记：行 29 界面变化列仍为「侧栏正文；失败横幅」（`:92`）、行 44 仍为「黑屏居中文字 + 失败横幅」（`:112`），§3.1 拟新增清单（`:193`）无 T80／T81，§6-D2（`:284`：「失败结算（29 / 44）不配插图」）与 B135 相反且无历史标注；本档 §14-39（`docs/design-ui-v1.md:1297`：「其余演出列表未动」）仅披露 CG-04 两行，未把 29／44 的演出同步列为上抛项 | 在 §14 登记演出表同步项（行 29／44 界面变化列、§3.1 增 T80／T81 行、§6-D2 加 B135 历史标注——按 D33 先例），或按 B133 体例同步并在 §9 变更记录披露 |
+| 4 | 文面同步（计数） | 🔵 | B05 后多处计数未同步：「8 张演出大图」（`docs/design-ui-v1.md:544`）、「8 处展示点无一需要条件化」（`:553`）、「展示点登记表 8 张」（`:383`）、「§6.7 登记表 8 行逐条」（`:388`）与 §10-B132 行（`:1048`）——与 §6.7 的 9＋1 登记集（`:565`／`:584`）不一致；§2-B127 的「撤注册 5」（`:347`）亦与 §7.12 重算（`:921`：「撤注册 6（行 18／32／33／34／35／36——行 34＝B05 追加）」）不符 | 按 B05 后数值改写（8→9＋1；撤注册 5→6、保留 23→22），或在旧行加 B05 指针 |
+| 5 | 文面同步（清单） | 🔵 | §8.2 检查清单 H5（`docs/design-ui-v1.md:965`：「11 条逐条过；文案稿重导成功」）未随帮助 11→12 条更新（`:933`：「共 12 条（B136 增存档行——第 12 条）」；H2 已含第 12 条），而状态行声明 §8.2 已同步 | 把 H5 判据改为「12 条逐条过」 |
+| 6 | 术语一致性 | 🔵 | 同一动作的物件在三档称呼不一：`docs/design-ui-v1.md:731`「桑尼拉保险丝＋朝画外示意的手势」／`docs/station-staging.md:198`「桑尼拉下保险闸」／`docs/design-station-nodes.md:288`「桑尼拉下了主供电的保险」 | 以叙事线命名（bible §5／§7）为准统一三处用词 |
+| 7 | 验收完备性 | 🔵 | §1.2 写入失败分支只写「该档行内提示＋toast 一句」（`docs/design-ui-v1.md:123`），未给玩家可见文本；同节其余反馈（存入／覆盖／删除／读取、存储不可用警示行）均为逐字句 | 补一句采用句（与既有自动存档失败同渠道），或明示沿用自动存档失败文案 |
+| 8 | 验收可机检性 | 🔵 | B133 验收只写「三档改后文本无两义动作措辞——grep 复核」（`docs/design-ui-v1.md:396`），未给扫描式样，任何 grep 都能自证通过 | 写死扫描式样（如禁「朝镜头」正用法；「镜头」仅允许出现在负向约束内） |
+| 9 | 口径一致性 | 🔵 | B136 后开新局不碰手动档位（`docs/design-ui-v1.md:88`／`:116④`），但 §1.1 覆盖确认句（`:72`）仍只写「（通关记录保留）」，未纳入「手动档位保留」，句面易令玩家误判档位将被清 | 句中补「手动存档位保留」，或明写该句覆盖面仅指自动存档 |
+
+计数：🔴×1／🟡×2／🔵×6（合计 9 条）；未解 🔴＝1（#1）。
+VERDICT: changes-required
+
+### 轮次 2（评审子代理）
+
+B05 设计评审 轮 2（修正轮复评 · 只验修正声明 9 条）——逐条验真表
+
+| # | Orig# | File | Severity | Status | Notes |
+|---|-------|------|----------|--------|-------|
+| 1 | 1 | docs/design-ui-v1.md | 🔴 | Fixed | :813 现＝「失败结算 29 号＝T80 整屏 CG（`dismiss:'keep'`；原浮图 T71 撤注册留档）、44 号＝T81 条件件（未获批前无 `cg`——§6.7／§2-B135）」＋「例外＝T31／T32 同名判改重出」——与 §6.7 登记表（:577／:578/:580）及 §2-B135（:411）一致；状态行同步清单已含 §7.8（:5） |
+| 2 | 2 | docs/design-ui-v1.md | 🟡 | Fixed | :134 机检①现＝「存／删后自动存档与记录逐字不变（互不干扰）；**读后自动存档＝该档 `st`**（与行为③、机检⑦同口径）」——与 :116「读手动档＝顺带把自动存档带到该档」、:140「读后状态＝存档点」一致 |
+| 3 | 3 | docs/station-staging.md | 🟡 | Fixed | :92「整屏图 T80〔新图·B05〕」、:112「整屏图 T81〔新图·B05·条件件〕」；:206 §3.1 注记（T80／T81 任务号续编、规格归 art §4.5）；:286 D2 加历史标注「〔历史记录：B05 改判——29 配整屏图（T80）／44 条件件（T81，待批）」；§9 增 v2.9（:334）；§14-39（:1297）同步披露 |
+| 4 | 4 | docs/design-ui-v1.md | 🔵 | Fixed | :544「9 张演出大图＋1 条件件——B05 追加 29／44」；:553「9 张展示点（44 条件件获批后同判）」；:383/:386/:388 均「9 张＋1 条件件」；:1048 §10-B132 同步；:347「B05 追加 `sangni-ambush` 后＝22／6／2／6」；:1043 §10-B127 同步 |
+| 5 | 5 | docs/design-ui-v1.md | 🔵 | Fixed | :965 H5＝「12 条逐条过；文案稿重导成功」（与 :933「共 12 条」一致） |
+| 6 | 6 | docs/design-ui-v1.md／station-staging.md／design-station-nodes.md | 🔵 | Fixed | 三档用词已统一「保险丝」——design-ui:731「桑尼拉下主供电的保险丝＋朝画外示意的手势」／staging:198「监控视角：桑尼拉下主供电的保险丝」／nodes:288「桑尼拉下了主供电的保险丝，还对着镜头外打了个手势」 |
+| 7 | 7 | docs/design-ui-v1.md | 🔵 | Fixed | :123 已补逐字文本「⚠ 没能写入这个存档位（这台设备的存储空间不足或被禁用）；本次游玩不受影响。」 |
+| 8 | 8 | docs/design-ui-v1.md | 🔵 | Fixed | :396 已写死判据（禁式「朝镜头」／「镜头」许可式四短语／扫描面＋记录面排除） |
+| 9 | 9 | docs/design-ui-v1.md | 🔵 | Fixed | :72 采用句＝「开始新局会覆盖本关的旧存档（通关记录与手动存档位保留）。确定开始？」；三链同步 :323／:324／:1240（D65） |
+| 10 | (new) | docs/design-ui-v1.md／design-station-nodes.md／docs/station-staging.md | 🔵 | New | 修正轮未在各档变更记录留轮次条目：design-ui 最新仍 v1.12（:1317）、nodes 最新仍 v3.19（:674）（staging 已留 v2.9）；且 staging v2.9 声明的「写入范围＝§1 行 29／44＋§3.1 注记＋§6-D2＋§9」未含 §3.1 CG-04 行本轮的用词统一（该行由「保险闸」→「保险丝」，:198）。建议按各档既有体例补条目，或明示本轮仅批次档 §2 留档、各档并入现版本 |
+| 11 | (new) | docs/design-ui-v1.md | 🔵 | New | §2-B133 验收点 :396「③ **扫描面**＝四处写点——」其后枚举 6 个行指针（art §4.1-T31／§4.5 两行／staging 行 35／CG-04／本档 §7.4-23），与「四处」及落点（:394 四处）不符；:1049 §10-B133 仍列四处——计数与枚举需对齐 |
+
+计数：先前 9 条（🔴×1／🟡×2／🔵×6）＝全部 Fixed（逐条对现文件复核）；新发现 🔵×2；未解 🔴＝0。
+限制声明：`prototype/**`／`art/**` 不在评审面——§11 受影响文件行数为作者声明值（unverified）。
+
+VERDICT: pass
+
 ## §4 用户批准（主 agent）
+
+### 老板直令轮（2026-10-06）
+
+- **「不开设计评审，直接干活吧」＋「我让 codex 生图」**（原话）：评审按机械门禁后台补跑（轮 1＝changes-required → 修正轮 9 条落地 → **轮 2 pass**，2026-10-06）；实现先行——批准以本条记录为准，评审不阻塞老板侧。
+- **存档形态**＝**多档位**（B136 默认案；老板未反对）——备选「回退一步」不再复议（如需另开）。
+- **T81（44 号「氧气耗尽」整屏图）＝未获批**：按条件件不动（44 无 `cg`）；图单三张（T31-v2／T32-v2／T80）已由 Codex 交付并直入（2026-10-06）。
+- **B06（迷路治理·指路面板）**：「做」＋命名令（不叫 SOS；默认「🧭 指路」）——另档 `docs/batches/B06-wayfinding.md`。
+
 ## §5 实施记录（eng-coder）
 ## §6 验证与收口（父代理）

diff --git a/docs/station-staging.md b/docs/station-staging.md
@@ -89,7 +89,7 @@
 | 26 挑战铁头 | T18 健身房（现 deck1） | 起手慢镜 → 桌面手部特写（§2.5） | 铁头（对坐）；桌子、哑铃 | 侧栏正文；战斗演出 | 顶灯聚光（桌面光斑）；汗光 | 战斗对照「你的武力值 X ≥/< 1」；胜 → 27；负 → 4（败方描写〔新〕）；① 扣氧（掰腕路唯一代价载体·B70）；掰过手腕后 4④ 搭手成立（B70） | 手掌「啪」；桌「咯吱」；铁头「哈！」 |
 | 27 铁头开门 | T18 健身房（现 deck1） | 拍背瞬间轻震 → 机械手套推近 | 铁头；门禁、机械手套 | 侧栏正文；无特写 | 暖黄（心情变亮） | 线索卡「铁头已开门」〔新〕+ 机械手套🧤入包 | 拍背「砰」；大笑；门禁「嘀——」 |
 | 28 追猫 | 就地 · 中层仓库门口（入口仅 5；后 T08/T12；现 deck2） | 焦点银河叼本子 → 本子推近；换本时手-本特写 | 银河（叼本子）；皱巴巴的本子（「货运登记」） | 侧栏正文；无特写（账本到手后可点开读） | 轻松一拍 + 冷光 | 换本（once）：罐头出包 + 桑尼的账本📒入包；缺罐头时＝失败反馈（B03）＝§9.7.2·N28① F 列；复访分叉（持账本） | 猫叫；本子「啪嗒」；翻页；**发生场景＝S2（中层·仓库门口）——R2·B99；与 `design-station-nodes.md` §9.4 一致** |
-| 29 被制服 | T13 反应堆舱（现 deck3） | 桑尼阴影现身 → 红点逼近 → 旋转 + 急黑（慢镜 → 黑屏） | 桑尼（阴影）、无人机（红点）；视野边缘压黑 | 侧栏正文；失败横幅 | 冷青 → 全黑；红点余晖 | 震动〔新〕；失败结算「💀 闯关失败」（重开 / 回选关） | 无人机「嗡——」放大；桑尼叹气；闷响；心跳 |
+| 29 被制服 | T13 反应堆舱（现 deck3） | 桑尼阴影现身 → 红点逼近 → 旋转 + 急黑（慢镜 → 黑屏） | 桑尼（阴影）、无人机（红点）；视野边缘压黑 | 侧栏正文；失败横幅；**整屏图 T80〔新图·B05〕** | 冷青 → 全黑；红点余晖 | 震动〔新〕；失败结算「💀 闯关失败」（重开 / 回选关） | 无人机「嗡——」放大；桑尼叹气；闷响；心跳 |
 | 30 自己拆芯片 | T20 实验室（现 deck2） | 焦点防静电袋中的芯片 → 拆下瞬间推近 + 微光 | 工具柜、控制芯片、爬道口 | 侧栏正文；无特写 | 柜内冷光聚光；屏息 | 控制芯片💠入包；氧气条退＋闪（扣氧；已在选项时） | 防静电袋「窸」；拆下轻「嗒」 |
 | 31 硬拿冷却剂 | T12 仓库（现 deck2） | 焦点无人机俯冲撞箱 → 星币散落红闪；震动 | 桑尼（退入黑暗）、无人机；冷却剂罐、星尘矿石 | 侧栏正文；无特写 | 紫晶反光 + 红警示；狼狈 | 冷却剂罐🧊 + 星尘矿石💎入包；被偷：顶部红色警示条（「桑尼的无人机」抢走 8 星币）+ 金币格红闪「−8」 | 无人机「嗡—嗖」；箱子「咣」；硬币「叮铃」 |
 | 32 账本把柄 | T12 仓库（现 deck2） | 焦点桑尼笑容垮掉 → 踢开货箱（满箱紫晶） | 桑尼（脸白）；货箱（星尘矿石） | 侧栏正文；无特写 | 冷紫 + 阴影加深 | 冷却剂罐 + 星尘矿石入包 | 箱子「哐」；结巴；矿石「沙沙」 |
@@ -109,7 +109,7 @@
 | 41 结局 A · 圆满 | 整屏过场 · **CG-05〔需新图〕** | 特写（铐子）→ 拉远（全站灯亮）→ 定格 2 拍；慢镜 | 桑尼（被铐）、全员剪影、亮起的站 | 整屏过场 + 结局横幅 + 奖励框；正文分版（证据 3 档×广播 2 档·tIf——B57） | 暖光全亮；尘埃如星 | 结局横幅「🏁 结局 A · 圆满」+ 🎁 通关奖励；「重开本关 / 回关卡选择」 | 铐子「咔」；站长广播；温暖底噪 |
 | 42 结局 B · 取舍 | 整屏过场 · **CG-06〔需新图〕** | 跟镜（桑尼进舱、尾焰亮起）→ 拉远（没入木星阴影，慢镜） | 桑尼、逃生舱（远去）、木星阴影 | 整屏过场 + 结局横幅 + 奖励框 | 半暖半冷；遗憾 | 结局横幅「🏁 结局 B · 取舍」+ 奖励 | 舱门气密；推进器远去「轰」；风声 |
 | 43 结局 C · 撤离 | 整屏过场 · **CG-07〔需新图〕** | 慢镜（三枚胶囊依次滑出）→ 回望定格（站体：未重启＝熄灯／已重启＝微亮——B58）→ 黑场 + 星光留白 | 三枚金色胶囊、站体（熄灯／微亮两版）、木星 | 整屏过场 + 结局横幅 + 奖励框 | 金色启动光 + 深空；不舍 | 结局横幅「🏁 结局 C · 撤离」+ 奖励 | 发射「轰」；「我们会回来的」；之后静默 |
-| 44 失败 · 氧气耗尽 | 黑屏（就地压暗；现 deckX） | 视野收窄 → 慢镜 → 黑屏 | 全黑；只有心跳与远处喊声 | 黑屏居中文字 + 失败横幅 | 全黑；冰冷 | 氧气条闪到底 → 失败结算「💀 闯关失败」；附一次性补给点提示 | 心跳渐慢；远处喊名；长音「——」 |
+| 44 失败 · 氧气耗尽 | 黑屏（就地压暗；现 deckX） | 视野收窄 → 慢镜 → 黑屏 | 全黑；只有心跳与远处喊声 | 黑屏居中文字 + 失败横幅；**整屏图 T81〔新图·B05·条件件〕** | 全黑；冰冷 | 氧气条闪到底 → 失败结算「💀 闯关失败」；附一次性补给点提示 | 心跳渐慢；远处喊名；长音「——」 |
 | 45 保险柜 | T11 站长室（现 deck2） | 转盘转到最后一位 → 柜门弹开 → 绒布上的卡与便条（推近） | 保险柜（弹开）、站长授权卡、站长的便条 | 侧栏正文；无特写 | 柜内小暖光；尘埃 | 授权卡💳 + 站长的便条📝入包（红框） | 转盘「咔」；柜门「哆」；纸「簌」 |
 
 ---
@@ -195,13 +195,15 @@
 | CG-01 | 观景厅「看木星」的揭示；老板点名要的木星特写 | 木星大特写（橙棕条纹、大红斑）；前景可留沙发 / 绿植剪影作层次；暖橙对冷蓝星空 | 5 观景厅（首访推近） | **新增** |
 | CG-02 | 找到站长的冲击 + 主线赌注 | 病床上的伊莲娜（额角包扎、氧气面罩、昏睡）；阿雅的手与冰袋入镜一角；冷白 + 一小盏暖灯 | 3 医务室（首访） | **新增**（标准 §2.3 示例即点此件） |
 | CG-03 | 全关标题时刻 | 反应堆核心由冷灰 → 蓝白点燃；光环结构、光流沿管道爬升 | 34 反应堆重启 | **新增** |
-| CG-04 | 证据高光 | 监控视角：桑尼拉下保险闸 ＋ **朝画外示意**（手势朝向画面外——**不面向镜头、不与镜头互动**）；**桑尼形象＝T05 人物表第 7 格口径（写死参照）**；画面做旧 / 扫描线；时间戳用色块（**不得有文字数字**） | 35 监控回放 | **新增**（2026-10-04 晚判改 → T31-v2 同名覆盖） |
+| CG-04 | 证据高光 | 监控视角：桑尼拉下主供电的保险丝 ＋ **朝画外示意**（手势朝向画面外——**不面向镜头、不与镜头互动**）；**桑尼形象＝T05 人物表第 7 格口径（写死参照）**；画面做旧 / 扫描线；时间戳用色块（**不得有文字数字**） | 35 监控回放 | **新增**（2026-10-04 晚判改 → T31-v2 同名覆盖） |
 | CG-05 | 最好结局的收束 | 全站灯光重亮、桑尼被铐、全员剪影在中央大厅（温暖、星光尘埃） | 41 结局 A | **新增** |
 | CG-06 | 遗憾结局 | 逃生舱远去、没入木星阴影；站体只余几盏灯 | 42 结局 B | **新增**（构图可参考 T04） |
 | CG-07 | 撤离结局 | 三枚金色胶囊离开；回望熄灯的晨星号 | 43 结局 C | **新增**（构图可参考 T04） |
 | CG-08 | 序章整屏背景（`design-station-v1.md` §8.4「开场图另下美术单」） | 晨星号外观 / 食堂晚餐暖光（与断电对比）；横构图、可叠字区域留白 | 序章（非节点） | **补遗 · 非本表派生**（防漏单） |
 | T06-ext | 背包图标补齐（T06 为 20 格，缺这 3 件） | 监控回放（放映机 / 屏幕素材）、反应堆安全规程（卷起的规程纸）、站长的便条（折起的便条）；与 T06 同规格：单物件、居中、无文字 | 12 / 35 / 45 入手物 | **补遗 · 非本表派生**：T06 扩单 |
 | T20/T25-ext | 通道口补画 / 校核（爬道衔接；来源：`station-story-bible.md` §2.2 的美术侧输入） | 16 头顶画检修口；7 天花板画检修口；16 与 7 的管道走向要接得上（同一根管子上下贯通） | 16 ⇄ 7（爬道演出：16④ / 25① / 30① / 38） | **补遗 · T20 / T25 增项**（已下发资产补画 / 校核） |
+
+> **注记（B05 · 2026-10-04 晚）**：本表＝CG 编号制（CG-01~CG-08）的**历史下单表**；B05 失败结算两图以任务号续编——T80（29 被制服）／T81（44 失败·氧气耗尽 · 条件件）；出图规格与状态＝`art/requirements-v1.md` §4.5＋`art/status.md`「B05 批」。
 
 ### 3.2 已有 / 可复用对照（不再新增）
 
@@ -281,7 +283,7 @@
 | # | 决策 | 理由 | 被否方案 |
 |---|---|---|---|
 | D1 | CG 只出 7 张（4 特写 + 3 结局）+ 开场图补遗；场景全部复用已有 / 已下单资产 | 内景图本身就是揭示；CG 只用在「文字表达不了」的时刻 | 每间房补 CG（成本高、收益低） |
-| D2 | 失败结算（29 / 44）不配插图 | 失败是高频重开点，插图会看腻；黑屏本身就是设计 | 失败插图（成本 + 削弱重开手感） |
+| D2 | 失败结算（29 / 44）不配插图〔历史记录：B05 改判——29 配整屏图（T80）／44 条件件（T81，待批）；本行「不配插图」不再现行（现行＝`docs/design-ui-v1.md` §6.7／§2-B135）〕 | 失败是高频重开点，插图会看腻；黑屏本身就是设计 | 失败插图（成本 + 削弱重开手感） |
 | D3 | 结局出独立 CG（构图参考 T04，但不直接复用） | 结局是全关情绪落点，需要专属构图 | 直接复用 T04（情绪不足、构图不贴合） |
 | D4 | 事件节点舞台 = 触发房间内景（走廊事件 = 走廊图），不单独出图 | 按场景架构「进房 = 切场景」推演；引擎无需新机制 | 为事件节点单独出图 |
 | D5 | 首访演出「演一次」，复访走分叉正文不重演 | 与 `tIf` / `once` 数据一致；避免拖节奏 | 每次进入重演 |
@@ -329,6 +331,7 @@
 
 - **v2.7（2026-10-03，B03 复检收口轮同步）**：§1 行 28 补发生场景指针＝S2（中层·仓库门口，与 `design-station-nodes.md` §9.4 一致；R2·B99——显示楼层应取【中层】，实现面现取 deck1，随实现轮改）。**越写域披露**：按父侧指示同步（写入范围＝§1 行 28＋§9）。
 - **v2.8（2026-10-04，B05 晚 CG-04 措辞去歧义同步）**：§1 行 35 镜头列改「定格『朝画外示意』帧」；§3.1 CG-04 行画面要点改「朝画外示意（不面向镜头、不与镜头互动）＋桑尼形象＝T05 第 7 格口径（写死参照）」＋标「2026-10-04 晚判改 → T31-v2 同名覆盖」（原两义动作措辞已从两行删除）。**越写域披露**：本表属演出/分镜线——本次按父侧指示同步并披露（写入范围＝§1 行 35＋§3.1 CG-04 行＋§9）。
+- **v2.9（2026-10-06，B05 设计评审修正轮 · 演出面同步）**：§1 行 29 主面板列补「整屏图 T80〔新图·B05〕」／行 44 补「整屏图 T81〔新图·B05·条件件〕」；§3.1 加注记（本表＝CG 编号制历史下单表——T80／T81 落点＝`art/requirements-v1.md` §4.5）；§6-D2 加 B05 改判历史标注（29 配整屏图／44 条件件——本行不再现行）。**越写域披露**：本表属演出/分镜线——本次按父侧指示同步并披露（写入范围＝§1 行 29／44＋§3.1 注记＋§3.1 CG-04 行用词（保险闸→保险丝）＋§6-D2＋§9）。
 
 - **v2.6（2026-10-02，B03 评审修正轮 2 同步）**：§1 失败反馈列 8 行（9/10/11/15/17/19/28/40）改指 `design-station-nodes.md` §9.7.2 F 列（旧 `lockText` 引文清除）；1/7 劳动段表述改「选项标签三段」（B67；落选项文案位、`say` 不变）；§7-5 标 B02 轮口径＋B03 各轮指针；§7-10 补【已同步／未闭合】分列；§5 界面项 11 同步。口径＝`design-station-nodes.md` §9.7.2。
 

diff --git a/art/requirements-v1.md b/art/requirements-v1.md
@@ -96,7 +96,7 @@
 | T29 | `T29-medbay-closeup-v1.jpg` | 1600~2048 横 | 病床上的伊莲娜（额角包扎、氧气面罩、昏睡）；阿雅的手与冰袋入镜一角；冷白＋一小盏暖灯 | 3 医务室首访（CG-02） | T17 风格衔接 | 无文字；人物可辨、不惊悚 |
 | T28 | `T28-jupiter-closeup-v1.jpg` | 1600~2048 横 | 木星大特写（橙棕条纹、大红斑）；前景沙发/绿植剪影做层次 | 5 观景厅首访（CG-01） | T19 风格衔接 | 无文字；与 T19 窗景一致 |
 | T30 | `T30-core-ignite-v1.jpg` | 1600~2048 横 | 反应堆核心由冷灰→蓝白点燃；光环结构、光流沿管道爬升 | 34 重启（CG-03） | T13 反应堆舱（已交付）风格衔接 | 无文字；「点亮」可读 |
-| T31 | `T31-monitor-frame-v1.jpg`（**2026-10-04 晚判改 → T31-v2 同名覆盖**——单：`tasks/T31-T32-v2-T80-T81-cg-fix.md`） | 1600~2048 横 | 监控视角：桑尼拉保险闸＋**朝画外示意**（手势朝向画面外、面朝画面侧方——**不得面向镜头、不与镜头互动**）；**形象＝T05 人物表第 7 格口径（写死参照）**；画面做旧/扫描线；**时间戳用色块**（不得有文字数字） | 35 监控回放（CG-04） | T23 风格衔接 | 无文字；关键动作可辨；**形象与 T05 一致、无镜头互动** |
+| T31 | `T31-monitor-frame-v1.jpg`（**2026-10-04 晚判改 → T31-v2 同名覆盖**——单：`tasks/T31-T32-v2-T80-T81-cg-fix.md`） | 1600~2048 横 | 监控视角：桑尼拉下主供电的保险丝＋**朝画外示意**（手势朝向画面外、面朝画面侧方——**不得面向镜头、不与镜头互动**）；**形象＝T05 人物表第 7 格口径（写死参照）**；画面做旧/扫描线；**时间戳用色块**（不得有文字数字） | 35 监控回放（CG-04） | T23 风格衔接 | 无文字；关键动作可辨；**形象与 T05 一致、无镜头互动** |
 | T32 | `T32-ending-a-v1.jpg`（**2026-10-04 晚判改 → T32-v2 同名覆盖**——单：`tasks/T31-T32-v2-T80-T81-cg-fix.md`） | 1600~2048 横 | 全站灯亮、桑尼**被铐（形象＝T05 第 7 格口径）**、全员在中央大厅（温暖、星光尘埃）；**背景人群＝本作乘员——严禁非本作角色（如绿皮肤外星人）** | 41 结局 A（CG-05） | T04/站外风格 | 无文字；暖、亮；**被捕者＝正确桑尼；人群零非本作角色** |
 | T33 | `T33-ending-b-v1.jpg` | 1600~2048 横 | 逃生舱远去、没入木星阴影；站体只余几盏灯 | 42 结局 B（CG-06） | 同上（构图可参考 T04） | 无文字；遗憾基调 |
 | T34 | `T34-ending-c-v1.jpg` | 1600~2048 横 | 三枚金色胶囊离开；回望晨星号（**熄灯/微亮两版或可两读构图**） | 43 结局 C（CG-07） | 同上 | 无文字；不舍基调 |
@@ -189,7 +189,7 @@
 
 | 编号 | 交付路径（＝入库目录） | 尺寸 | 构图/画面要点 | 用途（节点） | 依赖（先读） | 验收要点 |
 |---|---|---|---|---|---|---|
-| T31-v2 | `images/station/cg/monitor-frame.jpg`（同名覆盖） | 1600~2048 横（同现图量级） | 监控视角：桑尼拉保险闸＋朝画外示意；形象＝T05 第 7 格；做旧/扫描线；时间戳用色块 | 35 监控回放（CG-04） | 现图（改前版） | 无文字；形象一致；无镜头互动 |
+| T31-v2 | `images/station/cg/monitor-frame.jpg`（同名覆盖） | 1600~2048 横（同现图量级） | 监控视角：桑尼拉下主供电的保险丝＋朝画外示意；形象＝T05 第 7 格；做旧/扫描线；时间戳用色块 | 35 监控回放（CG-04） | 现图（改前版） | 无文字；形象一致；无镜头互动 |
 | T32-v2 | `images/station/cg/ending-a.jpg`（同名覆盖） | 1600×1001（同现图） | 全站灯亮、桑尼被铐（正确形象）、全员在中央大厅；人群＝本作乘员、零非本作角色 | 41 结局 A（CG-05） | 现图（改前版） | 无文字；暖、亮；人群零外星人 |
 | T80 | `images/station/cg/defeat-ambush.jpg` | 1600~2048 横 | 29 号整屏：反应堆舱内桑尼从阴影走出＋无人机红点逼近；视野边缘压暗；不惊悚 | 29 被制服（失败结算） | 浮图 `sangni-ambush`（同刻整屏版） | 无文字；桑尼形象＝T05 第 7 格 |
 | T81（**条件件**） | `images/station/cg/defeat-oxygen.jpg` | 1600~2048 横 | 44 号整屏：视野四周压黑收窄成管状；中央朦胧余光（不依赖具体房间）＋不可辨人影；克制不惊悚 | 44 失败·氧气耗尽（失败结算） | — | 无文字；无面部；任意地点成立 |

diff --git a/art/tasks/T31-T32-v2-T80-T81-cg-fix.md b/art/tasks/T31-T32-v2-T80-T81-cg-fix.md
@@ -16,7 +16,7 @@
 
 | 任务 | 资产/文件 | 交付路径（＝入库目录） | 尺寸 | 构图 / 画面要点 | 用途（节点） | 依赖（先读） | 验收要点 |
 |---|---|---|---|---|---|---|---|
-| **T31-v2** | `monitor-frame.jpg` | `images/station/cg/monitor-frame.jpg`（**同名覆盖**） | 1600~2048 横（同现图量级 1659×948） | 监控视角：桑尼**拉下主供电保险闸**＋**朝画外示意**（手势朝向画面外；不看镜头）；**桑尼形象＝T05 第 7 格口径（写死，见通用要点 1）**；画面做旧 / 扫描线；时间戳用色块 | 35 监控回放（CG-04） | 现图 `images/station/cg/monitor-frame.jpg`（改前版）＋`sangni.jpg` | 无文字；形象与 T05 一致；**无镜头互动**；拉闸动作可辨 |
+| **T31-v2** | `monitor-frame.jpg` | `images/station/cg/monitor-frame.jpg`（**同名覆盖**） | 1600~2048 横（同现图量级 1659×948） | 监控视角：桑尼**拉下主供电的保险丝**＋**朝画外示意**（手势朝向画面外；不看镜头）；**桑尼形象＝T05 第 7 格口径（写死，见通用要点 1）**；画面做旧 / 扫描线；时间戳用色块 | 35 监控回放（CG-04） | 现图 `images/station/cg/monitor-frame.jpg`（改前版）＋`sangni.jpg` | 无文字；形象与 T05 一致；**无镜头互动**；拉闸动作可辨 |
 | **T32-v2** | `ending-a.jpg` | `images/station/cg/ending-a.jpg`（**同名覆盖**） | 1600×1001（同现图） | 全站灯亮、桑尼**被铐**（**形象＝T05 第 7 格口径——不得画成瘦高·深发型**）、全员在中央大厅（温暖、星光尘埃）；**背景人群＝本作乘员（8 位）——严禁出现非本作角色（如绿皮肤外星人）**；人群若可辨逐位对照 T05 | 41 结局 A（CG-05） | 现图 `images/station/cg/ending-a.jpg`（改前版） | 无文字；暖、亮；**被捕者＝正确桑尼**；**人群零非本作角色** |
 | **T80** | `defeat-ambush.jpg` | `images/station/cg/defeat-ambush.jpg`（新图） | 1600~2048 横 | 29 号「被制服」整屏：反应堆舱内，桑尼从阴影里走出（**形象＝T05 第 7 格口径**）＋无人机红点逼近（红点/星点光）；第一人称被伏击感——视野边缘压暗；基调克制、**不惊悚**（8~12 向） | 29 被制服（失败结算） | 浮现图 `images/station/moments/sangni-ambush.jpg`（同景同刻——本图是它的**整屏画幅版**，不是裁切） | 无文字；桑尼形象＝T05 第 7 格；「阴影现身＋红点逼近」可辨 |
 | **T81**（条件件） | `defeat-oxygen.jpg` | `images/station/cg/defeat-oxygen.jpg`（新图） | 1600~2048 横 | 44 号「氧气耗尽」整屏：第一人称视野从四周向中央**压黑收窄成管状**；中央残留朦胧余光（色块化——**不依赖具体房间**：任意节点皆成立）＋远处一个**不可辨身份**的人影轮廓与尘埃亮点；安静克制、不惊悚 | 44 失败 · 氧气耗尽（失败结算） | —（就地失败，无站点图依赖） | 无文字；不出现可辨识角色面部；任意地点成立 |

diff --git a/art/status.md b/art/status.md
@@ -72,9 +72,9 @@
 
 | 任务号 | 交付物 | 用途 | 状态 | 备注 |
 |---|---|---|---|---|
-| T31-v2 | `monitor-frame.jpg` 重出（形象＝T05 第 7 格＋朝画外示意） | 35 监控回放（CG-04） | **下发**（同名覆盖 `images/station/cg/monitor-frame.jpg`） | 动作口径：**不面向镜头、不与镜头互动**；单内形象参照**写死** |
-| T32-v2 | `ending-a.jpg` 重出（被捕者＝正确桑尼；人群零非本作角色） | 41 结局 A（CG-05） | **下发**（同名覆盖 `images/station/cg/ending-a.jpg`） | 背景人群＝本作乘员；**严禁绿外星人等非本作角色** |
-| T80 | `defeat-ambush.jpg`（29 号整屏图） | 29 被制服（失败结算） | **下发**（新图→ `images/station/cg/defeat-ambush.jpg`） | 桑尼形象＝T05 第 7 格；同批撤浮图 `sangni-ambush` 注册（实现轮） |
+| T31-v2 | `monitor-frame.jpg` 重出（形象＝T05 第 7 格＋朝画外示意） | 35 监控回放（CG-04） | **已交付并直入库（2026-10-06）** | 同名覆盖；桑尼拉下主供电闸并指向画外；不与镜头互动 |
+| T32-v2 | `ending-a.jpg` 重出（被捕者＝正确桑尼；人群零非本作角色） | 41 结局 A（CG-05） | **已交付并直入库（2026-10-06）** | 同名覆盖；移除外星人形象；被捕者为蓝帽、白衬衫、深蓝背带裤桑尼 |
+| T80 | `defeat-ambush.jpg`（29 号整屏图） | 29 被制服（失败结算） | **已交付并直入库（2026-10-06）** | 桑尼形象参照 T05 第 7 格；29 号 `cg` 注册与撤浮图注册待实现轮 |
 | T81（**条件件**） | `defeat-oxygen.jpg`（44 号整屏图） | 44 失败·氧气耗尽 | **未启用（条件件）** | 触发＝老板批准（§4）；不获批不动工 |
 
 ## 修正说明（2026-09-30 晚）
@@ -109,4 +109,4 @@
 - [x] **T46-v2 到货** → 替换 `images/station/moments/aya-nurse.jpg`（父侧入库）——已替换（2026-10-04；患者＝女站长口径）
 - [x] 扩图 T57~T72：**已全发（免验收直入 `images/station/moments/`，出图即生效）**；**注册已落（登记 16/16；实盘 13/16——撤注册 3 在案）**；锚点校准待 C 键回填（口径＝`docs/design-ui-v1.md` §7.4.1／§7.7-9）
 - [x] **背景状态变体 T73~T79**：已全发（免验收直入 `images/station/rooms/`，出图即生效）；**注册（`variants` 7 条）＋`figures` 回填＋同框抽查已落**（`figures` 为目测值、待 C 键回填；口径＝`docs/design-ui-v1.md` §7.10；单＝`tasks/T73-T79-room-state-variants.md`）
-- [ ] **B05 CG 修正与补齐**：T31-v2／T32-v2 到货即覆盖同名文件（父侧/美工直入，无需再跑验收）；T80 到货后注册 29 号 `cg`＋撤 `sangni-ambush` 浮图注册（实现轮）；T81 待老板批准（条件件）
+- [ ] **B05 CG 实现收尾**：美术 T31-v2／T32-v2／T80 已直入库（2026-10-06）；实现轮待注册 29 号 `cg` 并撤 `sangni-ambush` 浮图注册；T81 待老板批准（条件件）

diff --git a/docs/design-station-nodes.md b/docs/design-station-nodes.md
@@ -285,7 +285,7 @@
 
 - **桑尼的账本**：「封面写着「货运登记」，里面记的却是——\n「3 月 14 日　入：猫粮 12 箱　→　出：星尘矿石 12 块」\n「4 月 2 日　　入：罐头 8 箱　　→　出：星尘矿石 8 块」\n最后一页被撕掉一半，只剩一句：「等灯一灭……」」
 - **反应堆安全规程**：「《反应堆舱安全规程 · 第七版》\n一、进入前，确认随身照明。\n二、启动顺序：控制芯片 → 冷却剂 → 站长授权卡。\n三、任何情况，都不要一个人进去。」
-- **监控回放**：「画面里，桑尼拉下了主供电的保险，还对着镜头外打了个手势。\n时间戳：停电前 2 分钟。\n（旁边那张便签——「保险柜：0325」——也一起收好了。）」
+- **监控回放**：「画面里，桑尼拉下了主供电的保险丝，还对着镜头外打了个手势。\n时间戳：停电前 2 分钟。\n（旁边那张便签——「保险柜：0325」——也一起收好了。）」
 - **站长的便条**：「便条上的字有点抖：\n「{me}：看到这张条子，说明我已经出事了。别声张，去找铁头——他嘴硬，心不硬。\n　　　　　　　　　　　　　　—— 伊莲娜」」
 
 ### 8.4 未改动清单（走查确认）
@@ -672,6 +672,7 @@
 
 - **v3.18（2026-10-04，B04 午 撤调暗＋CG 整屏层轮 · B130 重订／B132）**：§9.5 新增 B04 午条目（B130＝全站正常亮度口径——本档无落点；B132＝7 节点 `cg` 展示字段＋序章图登记——选项/文案/数值零变动）；状态行同步。
 - **v3.19（2026-10-04，B05 晚 CG 修正与补齐轮 · B133~B136）**：§9.5 新增 B05 晚条目（B133／B134／B136＝本档无落点；B135＝29 号 `cg` 增＋撤 `moments: ['sangni-ambush']`（T71 留档）、44＝条件件——选项/文案/数值零变动）；状态行同步。
+- **v3.20（2026-10-06，B05 设计评审修正轮）**：监控回放正文用词统一为「保险丝」（全站口径以 `station-story-bible.md` §7 为准）；无选项／条件／数值变动；详目＝批次档 §2「B05 评审修正轮」段。
 
 - **v3.17（2026-10-04，B04 晨 试玩系统复盘轮 · B131）**（补记）：§5 行 39 删冗余选项登记；§9.5 新增 B04 复盘轮条目；状态行同步。
 

diff --git a/art/deliveries/notes.md b/art/deliveries/notes.md
@@ -21,4 +21,11 @@
 
 - 按 `art/requirements-v1.md` §4.1 交付 8 张剧情 CG／序章图，文件位于本目录，状态待策划验收。
 - 均为 JPEG 横图，宽 1600~1942 px、高 809~1001 px，单图 ≤0.65 MB；画面未见可辨文字或数字。
+
+## B05 CG 修正与补齐（2026-10-06）
+
+- T31-v2 已同名覆盖 `images/station/cg/monitor-frame.jpg`：1600×1001 px、484,564 B；桑尼拉下主供电闸，另一手指向画外，视线朝向画外同伴。
+- T32-v2 已同名覆盖 `images/station/cg/ending-a.jpg`：1600×1001 px、419,018 B；桑尼被铐，原有外星人形象已移除。
+- T80 已新增 `images/station/cg/defeat-ambush.jpg`：1600×1001 px、377,055 B；反应堆舱伏击场景，桑尼与红色无人机传感器可辨。
+- 三张均为 JPEG，无透明通道且小于 1.5 MB；T81 为条件件，仍待老板批准。
 - T73 `medbay-awake.jpg` 已按更新后的 `medbay.jpg` 基准尺寸从 1659×948 校正为 1660×948；保留原构图与状态差分，文件 404,108 B。
